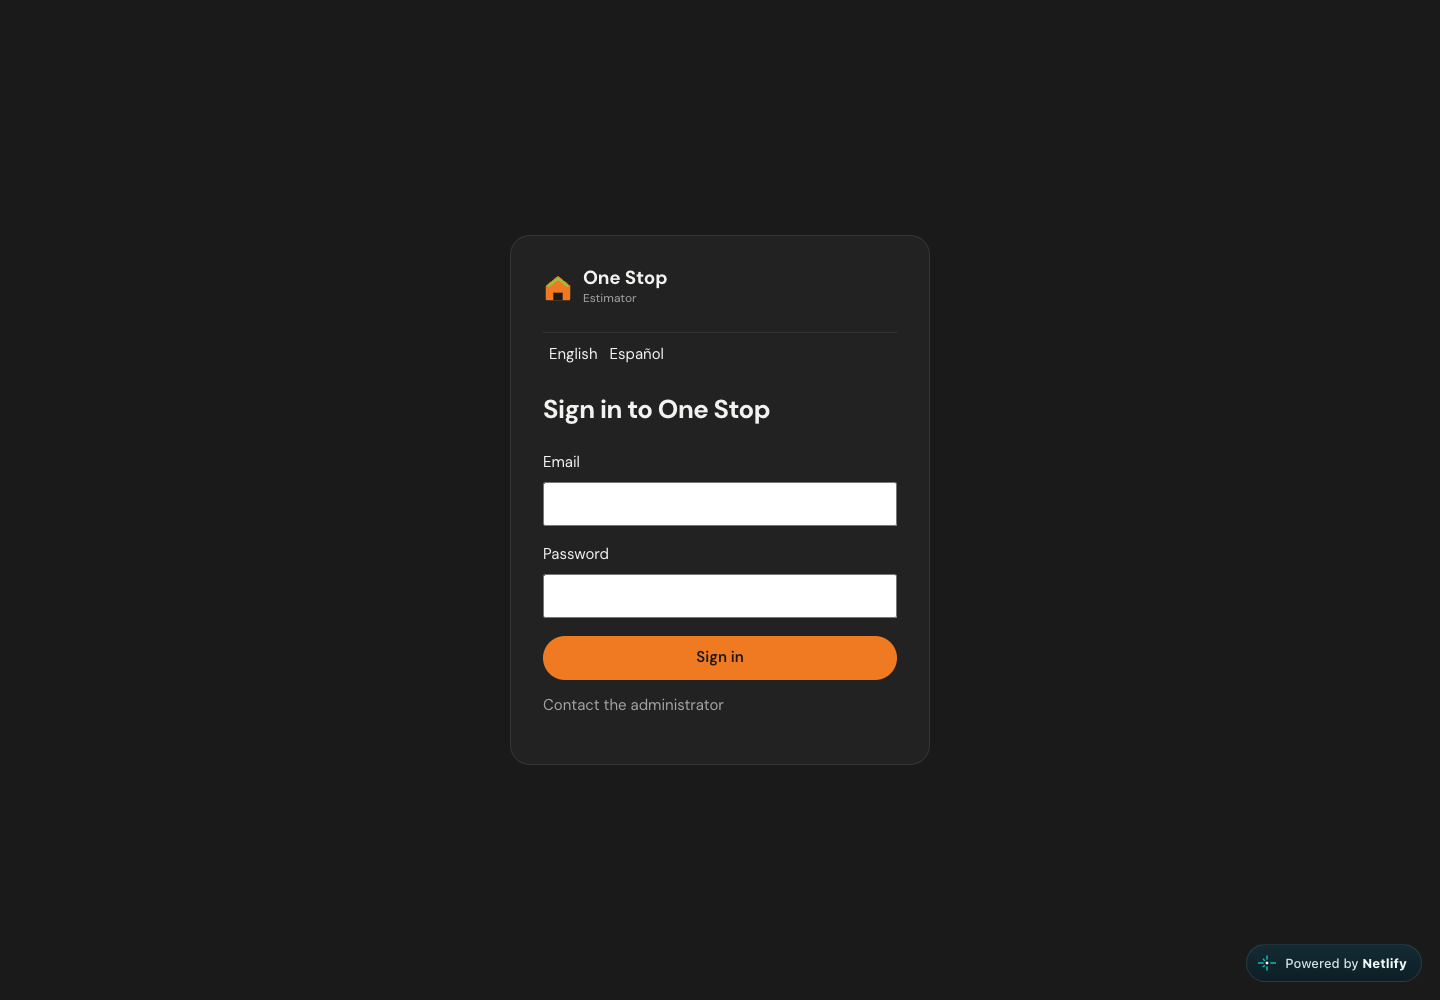
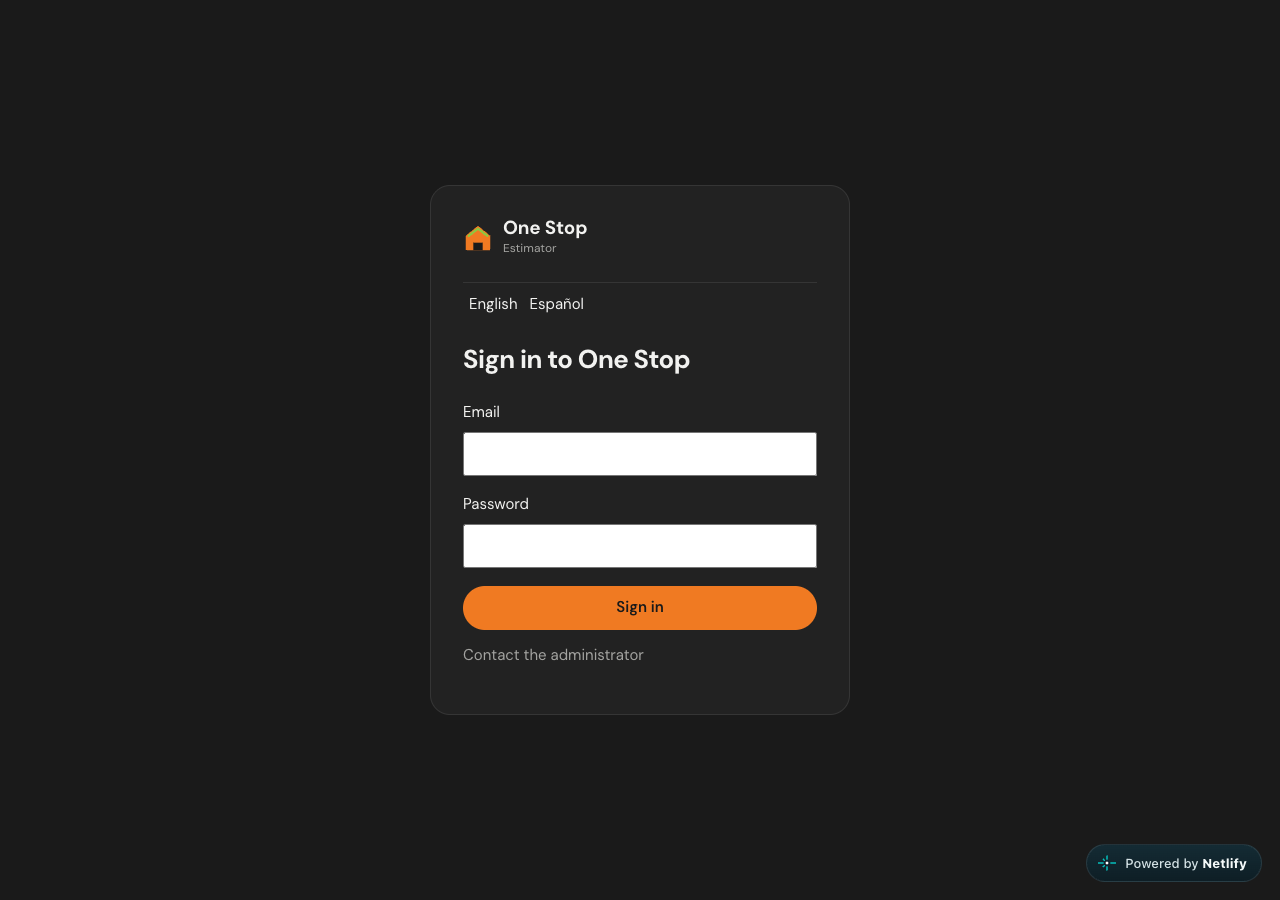
Record verified local and beta password access and real AI quote

Changed region(s): [[0.3438, 0.2489, 0.6562, 0.7467], [0.8438, 0.9333, 1.0, 0.9956]]

diff --git a/docs/beta-access.md b/docs/beta-access.md
@@ -56,3 +56,11 @@ The real validation requires local server-only `.env.server.local`, the public V
 The controlled Chrome journey uses an isolated migrated PGlite database and an explicitly controlled provider. It covers contact/project links, plan approval, editable persisted estimates, two-tab conflicts, pending text during EN/ES changes, proposal/PDF and revisions. This does not prove real OpenAI or Supabase password access.
 
 The authorized runner checks real password login for both accounts on localhost and beta, reload/browser reopening, sign-out/token replay, review permissions, direct signup rejection, and an unauthorized authenticated fixture. Only the development account creates a real online IA quote. Cleanup uses exact IDs from that run, verifies their deletion and retains both approved accounts. Kevin receives no synthetic conversation. Reports and screenshots in `evidence/beta-access/` exclude passwords, emails and customer conversation content. Empty Kevin history means live review detail cannot be demonstrated until Kevin creates his own conversation; detail behavior remains covered by synthetic isolated tests.
+
+## Observed validation — 2026-10-10
+
+The protected form regression was reproduced in Chrome and corrected without accepting null or foreign origins. Before retrying, the waiting process and remote account preflight confirmed that the rejected submission had not initialized passwords or created the operator. On the corrected submission, administration's initial password was configured while preserving its existing identity, metadata and grant; the missing approved operator was created. Neither approved account was removed during cleanup.
+
+Both approved accounts passed actual Chrome password login on localhost and the beta, EN/ES login UI, reload, persistent-profile browser reopening, sign-out and rejected old-token replay. The real online development-account quote passed greeting, approved plan, three-line editable persisted estimate, quantity edit/reload, client proposal and PDF. Responses reported `gpt-6.1-sol` with `medium` effort. The evidence records model-returned usage and provider duration; dollar amounts are estimates using configured token rates, not a billing receipt.
+
+The operator has no conversations, so live review verified its empty state and permissions rather than a customer detail page. Detailed administrative review remains covered by the isolated synthetic Chrome test. Natural session expiration was not waited out in a live browser. The full suite passed 95 tests, lint and build; live validation reported 11 checks, zero errors and zero cleanup errors. See `evidence/beta-access/browser-results.json` and `verification.json` for the tested implementation SHA and the distinction between live and controlled checks.
